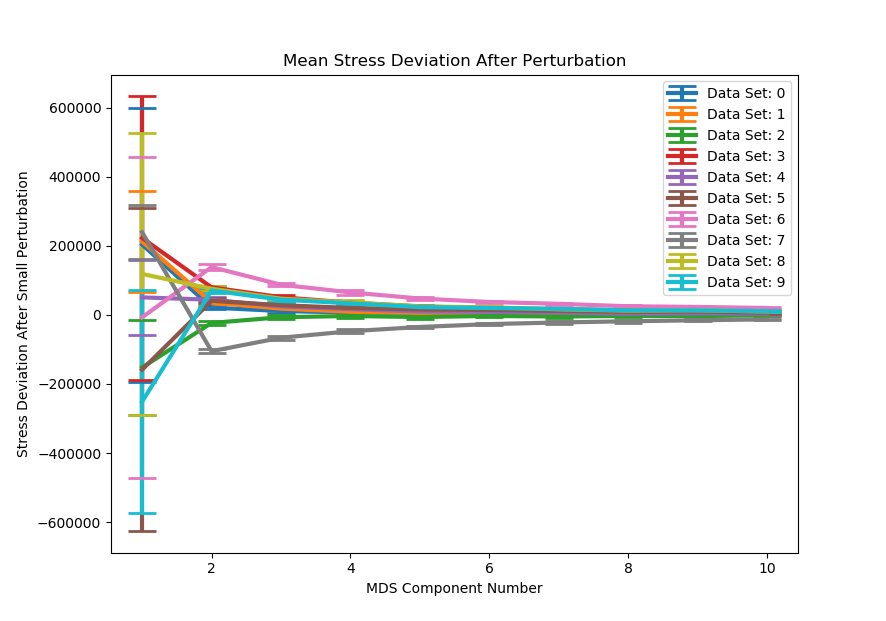
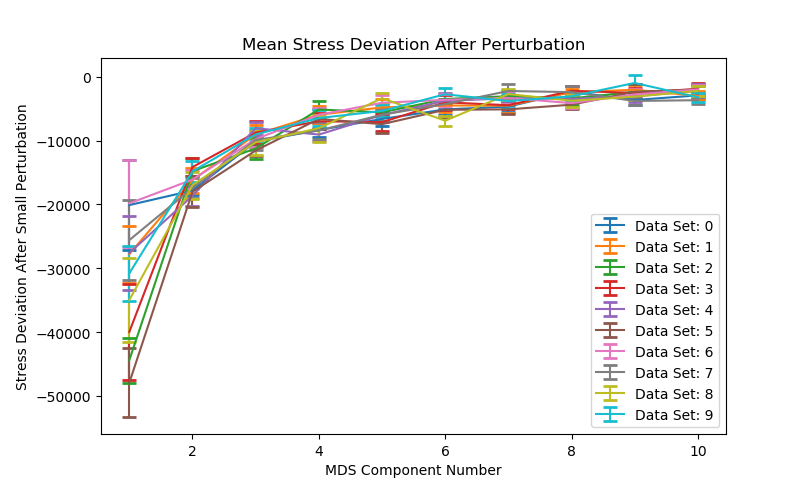
doesnt deserve a commit, seriously

diff --git a/src/MDS-PerformanceOfComponentNumber.py b/src/MDS-PerformanceOfComponentNumber.py
@@ -2,61 +2,68 @@ from matplotlib import pyplot as plt
 from sklearn.manifold import MDS
 from gap_statistic import OptimalK
 import numpy as np
+import os
 from DataGenerator import generateOneClusterData
 from Settings import (DEFAULT_NUMBER_OF_FEATURES,
                         DEFAULT_NUMBER_OF_RECORDS_PER_CLASS,
                         DEFAULT_FEATURE_MEAN_RANGE,
                         DEFAULT_RANDOM_NUMBER_SEED)
 
-mdsNumberOfComponentsRange = range(1, 11)
-meanStress = np.empty((10,))
-stdStress = np.empty((10,))
+nDifferentMdsComponentNumber = 20
+mdsNumberOfComponentsRange = range(1, 1+nDifferentMdsComponentNumber)
+meanStress = np.empty((nDifferentMdsComponentNumber,))
+stdStress = np.empty((nDifferentMdsComponentNumber,))
 
-meanClusterCount = np.empty((10,))
-stdClusterCount = np.empty((10,))
+meanClusterCount = np.empty((nDifferentMdsComponentNumber,))
+stdClusterCount = np.empty((nDifferentMdsComponentNumber,))
+
+nDatasets = 20
+stress = np.empty((nDatasets, nDifferentMdsComponentNumber))
 
 for j, mdsNumberOfComponents in enumerate(mdsNumberOfComponentsRange):
 
-    nClusterCounts = 20
-    clusterCounts = np.empty((nClusterCounts,))
-    stress = np.empty((nClusterCounts,))
+    clusterCounts = np.empty((nDatasets,))
 
     print("MDS Number of Components: {}".format(mdsNumberOfComponents))
 
-    for i in range(nClusterCounts):
+    for iDataset in range(nDatasets):
 
         data = generateOneClusterData(DEFAULT_NUMBER_OF_FEATURES,
                                     DEFAULT_NUMBER_OF_RECORDS_PER_CLASS,
-                                    DEFAULT_FEATURE_MEAN_RANGE, 
-                                    i,
+                                    DEFAULT_FEATURE_MEAN_RANGE,
+                                    iDataset,
                                     distribution="normal")
 
         mds = MDS(n_components=mdsNumberOfComponents, n_jobs=-1)
         mdsData = mds.fit_transform(data)
-        stress[i] = mds.stress_
+        stress[iDataset,j] = mds.stress_
 
         optimalK = OptimalK(parallel_backend='joblib', n_jobs=-1)
         clusterCount = optimalK(mdsData, n_refs=3, cluster_array=np.arange(1, 10))
-        clusterCounts[i] = clusterCount
-    
+        clusterCounts[iDataset] = clusterCount
+
     meanClusterCount[j] = np.mean(clusterCounts)
     stdClusterCount[j] = np.std(clusterCounts)
 
-    meanStress[j] = np.mean(stress)
-    stdStress[j] = np.std(stress)
+    meanStress[j] = np.mean(stress[:,j])
+    stdStress[j] = np.std(stress[:,j])
 
+saveDir = os.path.join("data", "MDS-meanStressForDifferentComponentNumber.npy")
+np.save(saveDir, stress)
 
-plt.subplot(1,2,1)        
+plt.subplot(1,2,1)
 plt.title("MDS - Number Of Components VS Cluster Count")
 plt.xlabel("MDS - Number Of Components")
 plt.ylabel("Cluster Count")
 plt.errorbar(mdsNumberOfComponentsRange, meanClusterCount, yerr=stdClusterCount,
-            capthick=2, capsize=10, linewidth=3, label="MDS Data")          
-plt.legend()            
-plt.subplot(1,2,2)        
+            capthick=2, capsize=5, linewidth=3, label="MDS Data")
+plt.xticks(mdsNumberOfComponentsRange, mdsNumberOfComponentsRange)
+
+plt.subplot(1,2,2)
 plt.title("MDS - Number Of Components VS Stress")
 plt.xlabel("MDS - Number Of Components")
 plt.ylabel("Stress")
 plt.errorbar(mdsNumberOfComponentsRange, meanStress, yerr=stdStress,
-            capthick=2, capsize=10, linewidth=3)                             
-plt.show()                
+            capthick=2, capsize=5, linewidth=3)
+plt.xticks(mdsNumberOfComponentsRange, mdsNumberOfComponentsRange)
+plt.show()

diff --git a/src/MDS-Stability3D.py b/src/MDS-Stability3D.py
@@ -1,52 +1,51 @@
 from matplotlib import pyplot as plt
 from sklearn.manifold import MDS
-from Preprocessing import optimalClusterCount
-from gap_statistic import OptimalK
 import numpy as np
+import os
 from DataGenerator import generateOneClusterData
 from Settings import (DEFAULT_NUMBER_OF_FEATURES,
                         DEFAULT_NUMBER_OF_RECORDS_PER_CLASS,
-                        DEFAULT_FEATURE_MEAN_RANGE,
-                        DEFAULT_RANDOM_NUMBER_SEED)
+                        DEFAULT_FEATURE_MEAN_RANGE)
 
-defaultStressPerMDSComponentNumber = [11439753, 4675575, 2886672, 1992081, 1487373, 1175917, 964234, 811773, 699457, 610293]
-nPerturbations = 50
+nPerturbations = 10
 nDataSets = 10
-mdsNumberOfComponentsRange = range(1, 11)
-meanStressDiff = np.empty((10,nDataSets))
-stdStressDiff = np.empty((10,nDataSets))
+nDifferentMdsComponentNumber = 10
+mdsNumberOfComponentsRange = range(1, 1+nDifferentMdsComponentNumber)
+meanStressDiff = np.zeros((nDifferentMdsComponentNumber,nDataSets))
+stdStressDiff = np.zeros((nDifferentMdsComponentNumber,nDataSets))
+
+stressDataDir = os.path.join("data", "MDS-meanStressForDifferentComponentNumber.npy")
+normalStress = np.load(stressDataDir)
 
 for j, mdsNumberOfComponents in enumerate(mdsNumberOfComponentsRange):
+    print("MDS Number of Components: {}".format(mdsNumberOfComponents))
 
-    for k in range(nDataSets):
+    for randomNumberSeed in range(nDataSets):
         sampleIdxToDelete = np.random.choice(DEFAULT_NUMBER_OF_RECORDS_PER_CLASS, nPerturbations, replace=False)
-        stressDiff = np.empty((nPerturbations,))
-
-        print("MDS Number of Components: {}".format(mdsNumberOfComponents))
 
         data = generateOneClusterData(DEFAULT_NUMBER_OF_FEATURES,
                                         DEFAULT_NUMBER_OF_RECORDS_PER_CLASS,
-                                        DEFAULT_FEATURE_MEAN_RANGE, 
-                                        k,
+                                        DEFAULT_FEATURE_MEAN_RANGE,
+                                        randomNumberSeed,
                                         distribution="normal")
 
+        stressDiff = np.zeros((nPerturbations,))
         for i in range(nPerturbations):
 
-            #dataToProcess = data.copy()
-            #dataToProcess[sampleIdxToDelete[i]] *= 1.2
             dataToProcess = np.delete(data, sampleIdxToDelete[i], axis=0)
 
             mds = MDS(n_components=mdsNumberOfComponents, n_jobs=-1)
             mdsData = mds.fit_transform(dataToProcess)
-            stressDiff[i] = defaultStressPerMDSComponentNumber[j] - mds.stress_
+            stressDiff[i] = mds.stress_ - normalStress[randomNumberSeed,j]
 
-        meanStressDiff[j,k] = np.mean(stressDiff)
-        stdStressDiff[j,k] = np.std(stressDiff)
+        meanStressDiff[j,randomNumberSeed] = np.mean(stressDiff)
+        stdStressDiff[j,randomNumberSeed] = np.std(stressDiff)
 
 plt.figure()
-for i in range(10):
-    plt.errorbar(range(1, 11), meanStressDiff[:,i], yerr=stdStressDiff[:,i],
-                capthick=2, capsize=10, linewidth=3, label="Data Set: {}".format(i))  
+for i in range(nDataSets):
+    plt.errorbar(range(1, nDifferentMdsComponentNumber+1), meanStressDiff[:,i],
+                yerr=stdStressDiff[:,i], capthick=2, capsize=5,
+                label="Data Set: {}".format(i))
 plt.xlabel("MDS Component Number")
 plt.ylabel("Stress Deviation After Small Perturbation")
 plt.title("Mean Stress Deviation After Perturbation")

diff --git a/src/MDS-PerformanceOfMetrics.py b/src/MDS-PerformanceOfMetrics.py
@@ -12,17 +12,18 @@ from Settings import (DEFAULT_FEATURE_MEAN_RANGE, DEFAULT_NUMBER_OF_FEATURES,
 
 metrics = ("euclidean", "manhattan", "chebyshev",
             "minkowski")
-nMetrics = len(metrics)        
+nMetrics = len(metrics)
 meanStress = np.empty((nMetrics,))
-stdStress = np.empty((nMetrics,))    
+stdStress = np.empty((nMetrics,))
 meanClusterCount = np.empty((nMetrics,))
 stdClusterCount = np.empty((nMetrics,))
 
+nDifferentDataSet = 20
+stress = np.empty((nDifferentDataSet,4))
+
 for j, metric in enumerate(metrics):
 
-    nDifferentDataSet = 50
     clusterCounts = np.empty((nDifferentDataSet,))
-    stress = np.empty((nDifferentDataSet,))
 
     dist = DistanceMetric.get_metric(metric)
     print("MDS Metric: {}".format(metric))
@@ -31,36 +32,39 @@ for j, metric in enumerate(metrics):
 
         data = generateOneClusterData(DEFAULT_NUMBER_OF_FEATURES,
                                     DEFAULT_NUMBER_OF_RECORDS_PER_CLASS,
-                                    DEFAULT_FEATURE_MEAN_RANGE, 
+                                    DEFAULT_FEATURE_MEAN_RANGE,
                                     i,
                                     distribution="normal")
-        precomputedMetricData = dist.pairwise(data)                      
-                      
-        mds = MDS(n_components=7, n_jobs=-1, dissimilarity="precomputed")
+        precomputedMetricData = dist.pairwise(data)
+
+        mds = MDS(n_components=8, n_jobs=-1, dissimilarity="precomputed")
         mdsData = mds.fit_transform(precomputedMetricData)
 
         optimalK = OptimalK(parallel_backend='joblib', n_jobs=-1)
         clusterCount = optimalK(mdsData, n_refs=3, cluster_array=np.arange(1, 10))
         clusterCounts[i] = clusterCount
-        stress[i] = mds.stress_
-    
+        stress[i,j] = mds.stress_
+
     meanClusterCount[j] = np.mean(clusterCounts)
     stdClusterCount[j] = np.std(clusterCounts)
 
-    meanStress[j] = np.mean(stress)
-    stdStress[j] = np.std(stress)
+    meanStress[j] = np.mean(stress[:,j])
+    stdStress[j] = np.std(stress[:,j])
 
-plt.subplot(1,2,1)        
+saveDir = os.path.join("data", "MDS-stressPerMetric.npy")
+np.save(saveDir, stress)
+
+plt.subplot(1,2,1)
+plt.tight_layout()
 plt.title("Metrics VS Cluster Counts")
 plt.xlabel("Metric")
 plt.ylabel("Cluster Counts")
 plt.errorbar(metrics, meanClusterCount, yerr=stdClusterCount,
-            capthick=2, capsize=10, linewidth=3)     
-plt.subplot(1,2,2)        
+            capthick=2, capsize=10, linewidth=3)
+plt.subplot(1,2,2)
 plt.title("Metrics VS Cluster Counts")
 plt.xlabel("Metric")
 plt.ylabel("Stress")
 plt.errorbar(metrics, meanStress, yerr=stdStress,
-            capthick=2, capsize=10, linewidth=3)                             
-plt.show()       
-
+            capthick=2, capsize=10, linewidth=3)
+plt.show()

diff --git a/src/MDS-StabilityOnMetric3D.py b/src/MDS-StabilityOnMetric3D.py
@@ -3,6 +3,7 @@ from sklearn.manifold import MDS
 from gap_statistic import OptimalK
 import numpy as np
 from sklearn.neighbors import DistanceMetric
+import os
 
 from DataGenerator import generateOneClusterData
 from Settings import (DEFAULT_NUMBER_OF_FEATURES,
@@ -10,7 +11,8 @@ from Settings import (DEFAULT_NUMBER_OF_FEATURES,
                         DEFAULT_FEATURE_MEAN_RANGE,
                         DEFAULT_RANDOM_NUMBER_SEED)
 
-defaultStressPerMDSComponentNumber = [964234,149740520,41874,964234]
+stressDataDir = os.path.join("data", "MDS-stressPerMetric.npy")
+defaultStressPerMDSComponentNumber = np.load(stressDataDir)
 nPerturbations = 20
 nDataSets = 10
 metrics = ("euclidean", "manhattan", "chebyshev", "minkowski")
@@ -27,20 +29,18 @@ for j, metric in enumerate(metrics):
 
         data = generateOneClusterData(DEFAULT_NUMBER_OF_FEATURES,
                                         DEFAULT_NUMBER_OF_RECORDS_PER_CLASS,
-                                        DEFAULT_FEATURE_MEAN_RANGE, 
+                                        DEFAULT_FEATURE_MEAN_RANGE,
                                         k,
-                                        distribution="normal")                                                             
+                                        distribution="normal")
 
         for i in range(nPerturbations):
 
-            #dataToProcess = data.copy()
-            #dataToProcess[sampleIdxToDelete[i]] *= 1.2
             dataToProcess = np.delete(data, sampleIdxToDelete[i], axis=0)
             precomputedMetricData = dist.pairwise(dataToProcess)
 
             mds = MDS(n_components=7, n_jobs=-1, dissimilarity="precomputed")
-            mdsData = mds.fit_transform(precomputedMetricData) 
-            stressDiff[i] = defaultStressPerMDSComponentNumber[j] - mds.stress_
+            mdsData = mds.fit_transform(precomputedMetricData)
+            stressDiff[i] = mds.stress_ - defaultStressPerMDSComponentNumber[k,j]
 
         meanStressDiff[j,k] = np.mean(stressDiff)
         stdStressDiff[j,k] = np.std(stressDiff)
@@ -48,7 +48,7 @@ for j, metric in enumerate(metrics):
 plt.figure()
 for i in range(10):
     plt.errorbar(metrics, meanStressDiff[:,i], yerr=stdStressDiff[:,i],
-                capthick=2, capsize=10, linewidth=3, label="Data Set: {}".format(i))  
+                capthick=2, capsize=10, linewidth=3, label="Data Set: {}".format(i))
 plt.xlabel("Metrics")
 plt.ylabel("Stress Deviation After Small Perturbation")
 plt.title("Mean Stress Deviation After Perturbation")

diff --git a/src/RealNumberOfClustersInData.py b/src/RealNumberOfClustersInData.py
@@ -1,0 +1,31 @@
+from matplotlib import pyplot as plt
+from sklearn.manifold import MDS
+from gap_statistic import OptimalK
+import numpy as np
+from DataGenerator import generateOneClusterData
+from Settings import (DEFAULT_NUMBER_OF_FEATURES,
+                        DEFAULT_NUMBER_OF_RECORDS_PER_CLASS,
+                        DEFAULT_FEATURE_MEAN_RANGE)
+
+nDatasets = 20
+clusterCounts = np.empty((nDatasets,))
+randomNumberSeeds = list(range(nDatasets))
+
+for i, randomNumberSeed in enumerate(randomNumberSeeds):
+
+    data = generateOneClusterData(DEFAULT_NUMBER_OF_FEATURES,
+                                DEFAULT_NUMBER_OF_RECORDS_PER_CLASS,
+                                DEFAULT_FEATURE_MEAN_RANGE,
+                                randomNumberSeed,
+                                distribution="normal")
+
+    optimalK = OptimalK(parallel_backend='joblib', n_jobs=-1)
+    clusterCount = optimalK(data, n_refs=3, cluster_array=np.arange(1, 10))
+    clusterCounts[i] = clusterCount
+
+plt.figure()
+plt.title("Cluster Counts Found By Gap Statistic")
+plt.xlabel("Data Set Id")
+plt.ylabel("Number Of Clusters")
+plt.bar(range(nDatasets), clusterCounts)
+plt.show()

diff --git a/src/Initialization.py b/src/Initialization.py
@@ -32,13 +32,19 @@ def initializeFeatureMeans(numberOfClasses, numberOfFeatures, _range,
         featureMeansOfEachClass[i] = initialMeans*_range[1] - _range[0]
     return featureMeansOfEachClass
 
-def initializeFeatureCov(numberOfClasses, numberOfFeatures, randomNumberSeed=None):
+def initializeFeatureCov(numberOfClasses, numberOfFeatures, randomNumberSeed=None, noCovariance=True):
 
     if randomNumberSeed != None:
         np.random.seed(randomNumberSeed)
 
     # Initialize feature covariance for each class
     featureCovarianceOfEachClass = np.empty((numberOfClasses, numberOfFeatures, numberOfFeatures))
+
+    if noCovariance:
+        for i in range(numberOfClasses):
+            featureCovarianceOfEachClass[i] = np.identity(numberOfFeatures)
+        return featureCovarianceOfEachClass
+
     for i in range(numberOfClasses):
         initialCov = np.random.rand(numberOfFeatures, numberOfFeatures)
 
@@ -51,8 +57,3 @@ def initializeFeatureCov(numberOfClasses, numberOfFeatures, randomNumberSeed=Non
 
         featureCovarianceOfEachClass[i] = symmetricCov
     return featureCovarianceOfEachClass
-
-
-
-
-
